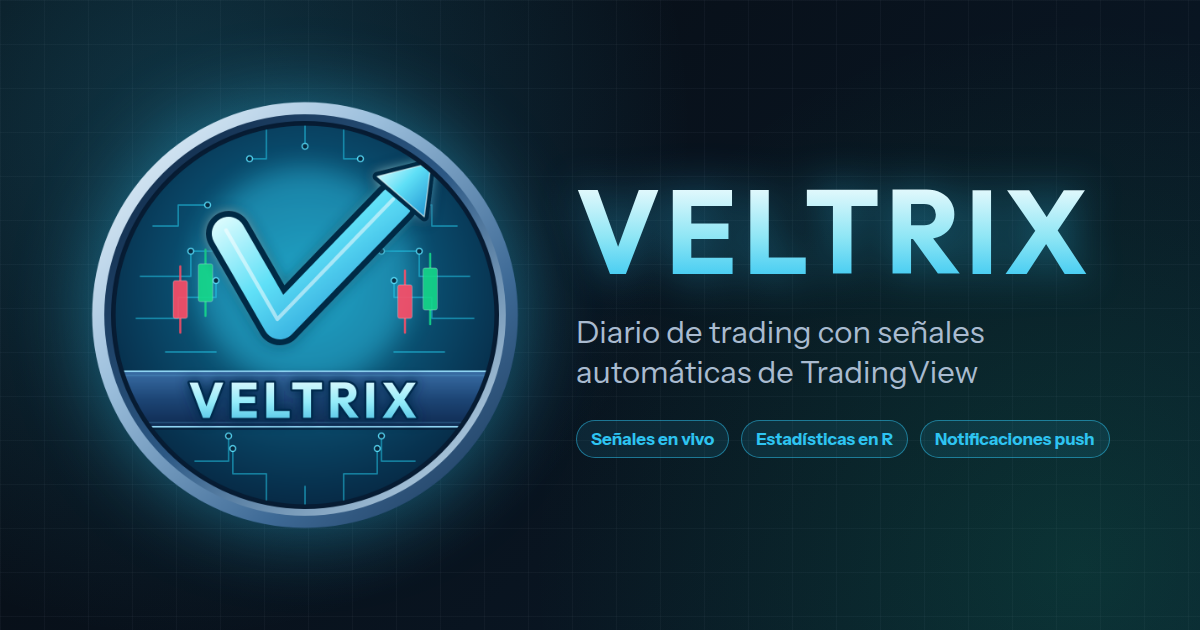
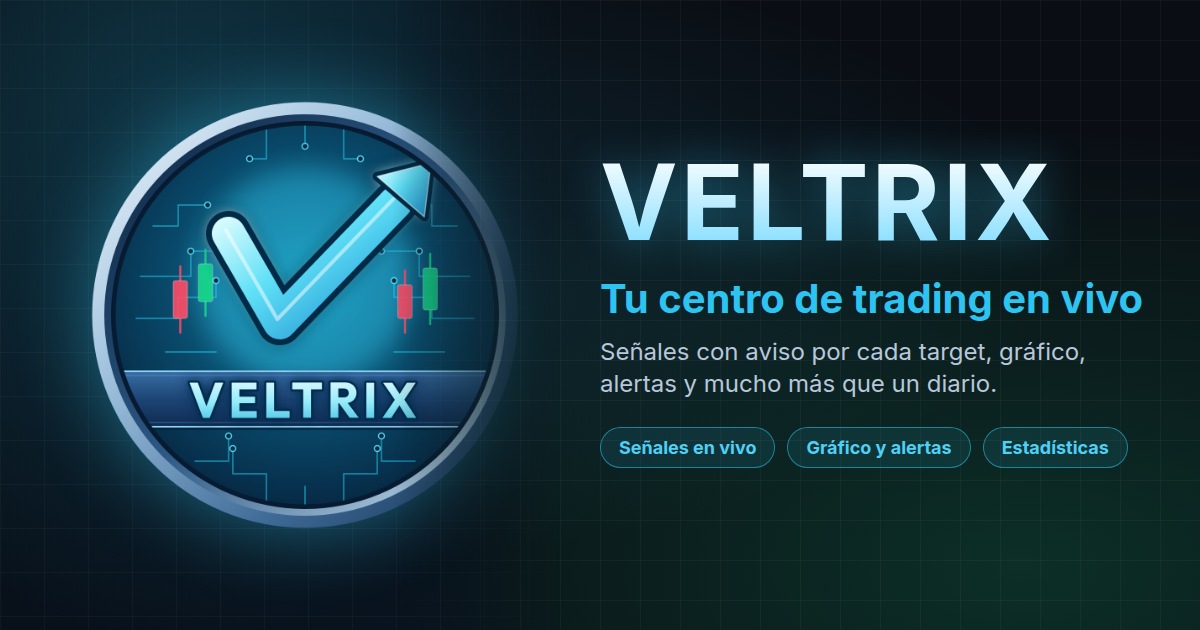
Vista previa del enlace y título de la pestaña: «Tu centro de trading en vivo» (ya no «Diario de Trading»), con imagen nueva (#155)
Claude-Session: https://claude.ai/code/session_01EgLeqzYAUrQc9NTPgMQDXy

Changed region(s): [[0.3392, 0.2111, 0.9558, 0.754], [0.4933, 0.6635, 0.925, 0.754]]

diff --git a/index.html b/index.html
@@ -3,22 +3,22 @@
   <head>
     <meta charset="UTF-8" />
     <meta name="viewport" content="width=device-width, initial-scale=1.0" />
-    <meta name="description" content="Diario de trading VELTRIX — registro de operaciones, estadísticas R, curva de capital y resumen mensual." />
-    <title>VELTRIX · Diario de Trading</title>
+    <meta name="description" content="Señales de TradingView en tu celular con aviso por cada target, gráfico con indicadores, mapa de liquidaciones, agenda económica, alertas y diario con estadísticas. Mucho más que un diario." />
+    <title>VELTRIX · Tu centro de trading en vivo</title>
 
     <meta property="og:type" content="website" />
     <meta property="og:site_name" content="VELTRIX" />
     <meta property="og:url" content="https://veltrix-trading.vercel.app/" />
-    <meta property="og:title" content="VELTRIX · Diario de Trading" />
-    <meta property="og:description" content="Diario de trading con señales automáticas de TradingView y notificaciones push." />
-    <meta property="og:image" content="https://veltrix-trading.vercel.app/og-image.png" />
+    <meta property="og:title" content="VELTRIX · Tu centro de trading en vivo" />
+    <meta property="og:description" content="Señales de TradingView en tu celular con aviso por cada target, gráfico con indicadores, mapa de liquidaciones, agenda económica, alertas y diario con estadísticas. Mucho más que un diario." />
+    <meta property="og:image" content="https://veltrix-trading.vercel.app/og-image.png?v=2" />
     <meta property="og:image:width" content="1200" />
     <meta property="og:image:height" content="630" />
 
     <meta name="twitter:card" content="summary_large_image" />
-    <meta name="twitter:title" content="VELTRIX · Diario de Trading" />
-    <meta name="twitter:description" content="Diario de trading con señales automáticas de TradingView y notificaciones push." />
-    <meta name="twitter:image" content="https://veltrix-trading.vercel.app/og-image.png" />
+    <meta name="twitter:title" content="VELTRIX · Tu centro de trading en vivo" />
+    <meta name="twitter:description" content="Señales de TradingView en tu celular con aviso por cada target, gráfico con indicadores, mapa de liquidaciones, agenda económica, alertas y diario con estadísticas. Mucho más que un diario." />
+    <meta name="twitter:image" content="https://veltrix-trading.vercel.app/og-image.png?v=2" />
     <link rel="icon" type="image/png" href="/favicon.png" />
     <link rel="preconnect" href="https://fonts.googleapis.com" />
     <link rel="preconnect" href="https://fonts.gstatic.com" crossorigin />

diff --git a/src/lang.tsx b/src/lang.tsx
@@ -21,7 +21,7 @@ function initial(): Lang {
 
 function applyDocLang(l: Lang) {
   document.documentElement.lang = l;
-  document.title = l === "en" ? "VELTRIX · Trading Journal" : "VELTRIX · Diario de Trading";
+  document.title = l === "en" ? "VELTRIX · Your live trading hub" : "VELTRIX · Tu centro de trading en vivo";
 }
 
 interface LangCtx {
